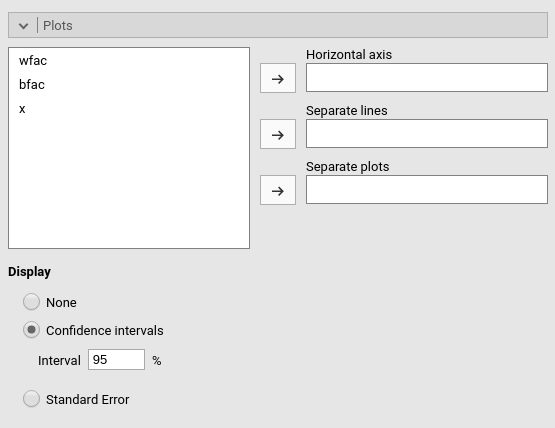
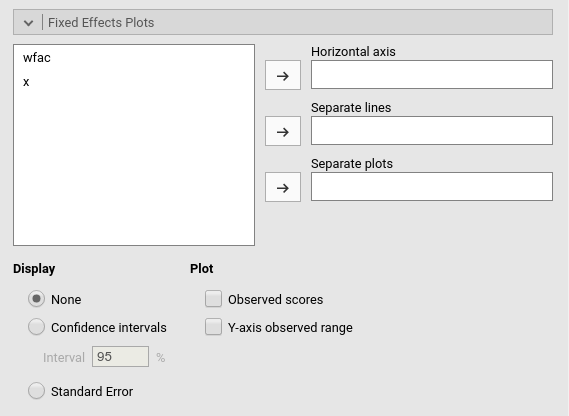
master

diff --git a/docs/gzlm_example3.html b/docs/gzlm_example3.html
@@ -331,11 +331,11 @@ div.tocify {
 <p>The data are simulated, not real, so please do not cite them to argue about any issue. The reason of this is to provide an example where the Poisson model assumptions are surely met, so some of the difficulties of dealing with count data and frequencies are not present. For more elaborated examples see <a href="gzlm_example4.html">Frequencies analysis with overdispersed models</a>.</p>
 <div id="the-research-design" class="section level1">
 <h1>The research design</h1>
-<p>Imagine an hypothetical study about addiction to mobile phones. Imagine a researcher developed a self-report questionnaire to measure participants mobile phone addiction (over-usage) and wanted to test whether the scores of the questionnaire predicts actual addictive behavior. Addictive behavior is measured in an experimental setting by counting how times the participants checked the mobile phone while waiting for the experimenters to arrive to start the measurement session (let’s ignore the time spent on each checks and assume all participants waited for the same ammount of time).</p>
+<p>Imagine a hypothetical study about addiction to mobile phones. Imagine a researcher developed a self-report questionnaire to measure participants mobile phone addiction (over-usage) and wanted to test whether the scores of the questionnaire predicts actual addictive behavior. Addictive behavior is measured in an experimental setting by counting how times the participants checked the mobile phone while waiting for the experimenters to arrive to start the measurement session (let’s ignore the time spent on each checks and assume all participants waited for the same ammount of time).</p>
 <p>The variables are then:</p>
 <ul>
 <li><em>checks</em>: number of time spent checking the phones.</li>
-<li><em>slefreport</em>: the total score of the self-report questionnaire</li>
+<li><em>selfreport</em>: the total score of the self-report questionnaire</li>
 <li><em>brand</em> : brand of the participant’s phone: either <code>Pears</code> or <code>Apples</code></li>
 </ul>
 <p>The descriptive and frequencies the independent variables show the sample charateristics.</p>
@@ -346,12 +346,12 @@ div.tocify {
 </div>
 <div id="understanding-the-problem" class="section level1">
 <h1>Understanding the problem</h1>
-<p>We want to understand how the frequency of checks is associated with the participant self-report questionnaire score (a sort of validity check of the questionnaire), if the brand of the phone makes a difference in the expected frequency of checking, and whether the questionnaire predictive ability varies for the two cell phone brands. Thus, we are looking for an effect of <code>selfreport</code> and a main effect of <code>brand</code> to answer the first two questions, and for the <code>interaction</code> between <code>selfreport</code> and <code>brand</code> to answer the third question.</p>
+<p>We want to understand how the frequency of checks is associated with the participant self-report questionnaire score (a sort of validity check of the questionnaire), if the brand of the phone makes a difference in the expected frequency of checking, and whether the questionnaire predictive ability varies for the two cell phone brands. Thus, we are looking for an effect of <code>selfreport</code> and a main effect of <code>brand</code> to answer the first two questions, and for the interaction between <code>selfreport</code> and <code>brand</code> to answer the third question.</p>
 <p>We employ the Poisson model because it is the classical model for modelling count dependent variables, and, being a special case of the generalized linear model, can accomodate main effects and intereactions. This is equivalent to a linear model where the link function is the logarithm of the predicted frequencies <span class="math inline">\(log(\hat{F})\)</span>, and the Poisson distribution is assumed for the dependent variable.</p>
 <p>We first start with only <code>selfreport</code> as independent variable, then we estimate the full model with also <code>brand</code> and the interaction as predictors.</p>
 <div id="interpretation" class="section level2">
 <h2>Interpretation</h2>
-<p>Recall that the predicted values of the models are the logarithm of the frequencies of checking the phone. Thus, the model coefficients are expressed in the log(Freq) scale. A clearer scale is obtained by removing the logarithm from the coefficients, obtaining coefficients expressed in original frequency scale. This is the <code>exp(B)</code> column of the results tables: <code>exp(B)</code> is the frequency rate of change: How many times should we multiply the expected frequency at <span class="math inline">\(x_i\)</span> to obtain the frequency at <span class="math inline">\(x_{i+1}\)</span>. In other words, the rate of change of the frequency as one increases the independent variable of one unity (or move to one group to the other for categorical independent variables).</p>
+<p>Recall that the predicted values of the models are the logarithm of the frequencies of checking the phone. Thus, the model coefficients are expressed in the log(Freq) scale. A clearer scale is obtained by removing the logarithm from the coefficients, obtaining coefficients expressed in original frequency scale. This is the <code>exp(B)</code> column of the results tables: <code>exp(B)</code> is the frequency rate of change: How many times should we multiply the expected frequency at <span class="math inline">\(x_i\)</span> to obtain the frequency at <span class="math inline">\(x_{i+1}\)</span>. In other words, the rate of change of the frequency as one increases the independent variable of one unity (or move from one group to the other for categorical independent variables).</p>
 <p>The plots and the estimated marginal means are conviniently transformed in the frequency scale, so they can be interpreted directly as the frequency of checking.</p>
 </div>
 </div>
@@ -363,12 +363,12 @@ div.tocify {
 <div id="r-squared-and-model-info" class="section level2">
 <h2>R-squared and model info</h2>
 <p>As soon as we fix the variables, results are displayed in the tables, with the first table showing some info about the model.</p>
-<p><img src="examples/gzlm3/r.infos1.png" class="img-responsive" alt=""></p>
+<p><img src="examples/gzlm3/r.info1.png" class="img-responsive" alt=""></p>
 <p>Here we find several info, some noteworthy ((see <a href="gzlm_specs.html">technical details</a> for more info):</p>
 <ul>
-<li>the R-squared, that gives information about the goodness of fit of the model . Our ability to predict pain increases of 30% thanks to the independent variable as compared to using the expected (average) frequency alone.</li>
+<li>the R-squared, that gives information about the goodness of fit of the model . Our ability to predict the frequencies of checks increases of 33% thanks to the independent variable as compared to using the expected (average) frequency alone.</li>
 <li>AIC (Aikake Information Criterion)_ Based on the likelihood of the model, decreases with the goodness of fit of the model. Usualful to compare the present model with alternative models (see below)</li>
-<li>Value/DF: This is the Pearson <span class="math inline">\(\chi^2\)</span> divided by the degrees of freedom. If the model fits well, its value should be around 1. This index is useful to evaluate the dispersion of the model. A model is overdispersed if the variance of the dependent variable is larger than what expected by the assumed distribution. In this example, it’s value is bourderline, as it is three times what it should be. However, we still have to include the <code>brand</code> variable which may explain variability of the dependent variable and thus capture dispersion. More details in [the other example](Advanced frequencies analysis with Poisson models](gzml_example4.html) and in <a href="gzlm_specs.html">technical details</a>.</li>
+<li>Value/DF: This is the Pearson <span class="math inline">\(\chi^2\)</span> divided by the degrees of freedom. If the model fits well, its value should be around 1. This index is useful to evaluate the dispersion of the model. A model is overdispersed if the variance of the dependent variable is larger than what expected by the assumed distribution. In this example, it’s value is bourderline, as it is three times what it should be. However, we still have to include the <code>brand</code> variable which may explain variability of the dependent variable and thus capture dispersion. More details in <a href="gzml_example4.html">Advanced frequencies analysis with Poisson models</a> and in <a href="gzlm_specs.html">technical details</a>.</li>
 </ul>
 </div>
 <div id="omnibus-tests" class="section level2">
@@ -379,7 +379,7 @@ div.tocify {
 </div>
 <div id="model-coefficients" class="section level2">
 <h2>Model Coefficients</h2>
-<p>There is a positive relationship between <code>selfreport</code> and <code>checks</code> (B=1.04, exp(B)=2.84), such that for one unit more in the self-report score, the frequency of checks <em>increases 2.84 times</em>. We just deduce this by looking at the <code>exp(b)</code>. Is that a big effect? Difficult to say, because we do not understand the units of the self-report score, so “one unit” does no say much. To overcome this interpretational limit, we can standardized the independent variable in <code>Covariated Scoring</code> panel,</p>
+<p>There is a positive relationship between <code>selfreport</code> and <code>checks</code> (B=1.04, exp(B)=2.84), such that for one unit more in the self-report score, the frequency of checks <em>increases 2.84 times</em>. We just deduce this by looking at the <code>exp(b)</code>. Is that a big effect? Difficult to say, because we do not understand the units of the self-report score, so “one unit” does not say much. To overcome this interpretational limit, we can standardized the independent variable in <code>Covariated Scoring</code> panel,</p>
 <p><img src="examples/gzlm3/covscore1.png" class="img-responsive" alt=""></p>
 <p><img src="examples/gzlm3/r.params2.png" class="img-responsive" alt=""></p>
 <p>We can now look at the new exp(B)=1.86 which says that the frequency of checks almost double for each standard deviation more in the self-report. It is not small as an effect: the average person in the sample checked the phone around 8 times (the intercept exp(B) is 8.13), and people one standard deviation above average round 15.12 times.</p>
@@ -389,7 +389,7 @@ div.tocify {
 <p>Finaly, we can ask for the plot of the predicted score, along with confidence intervals and observed scores.</p>
 <p><img src="examples/gzlm3/plots1.png" class="img-responsive" alt=""></p>
 <p><img src="examples/gzlm3/r.plots2.png" class="img-responsive" alt=""></p>
-<p>The graph shows a clear exponential relationship between <code>relfreport</code> and the frequency of check (which we took into the account thanks to the log() transformation): below the avergage of self-report score the frequency does not change much, but when the score gets to one standard deviation above averare its’ increase intensifies and reaches very high frequencies for scores up to 2 standard deviations above average. We also see a reasonable fit of the predicted frequencies to the observed ones.</p>
+<p>The graph shows a clear exponential relationship between <code>relfreport</code> and the frequency of check (which we took into the account thanks to the log() transformation): below the avergage of self-report score, the frequency does not change much, but when the score gets to one standard deviation above averare its increase intensifies and reaches very high frequencies for scores up to 2 standard deviations above average. We also see a reasonable fit of the predicted frequencies to the observed ones.</p>
 </div>
 </div>
 <div id="full-model." class="section level1">
@@ -400,7 +400,7 @@ div.tocify {
 <div id="model-info" class="section level2">
 <h2>Model info</h2>
 <p><img src="examples/gzlm3/r.info2.png" class="img-responsive" alt=""></p>
-<p>We first note that the <span class="math inline">\(R^2\)</span> rised up to .50, showing a strong effect of <code>brand</code>. We can also appreciate that the <code>Value/DF</code> index is now 0.987, practically 1: the model in now well in line with the assumption of the Poisson model, and no overdispersion is present.</p>
+<p>We first note that the <span class="math inline">\(R^2\)</span> rised up to .50, showing a strong effect of <code>brand</code>. We can also appreciate that the <code>Value/DF</code> index is now 0.987, practically 1: The model in now well in line with the assumptions of the Poisson model, and no overdispersion is present.</p>
 </div>
 <div id="omnibus-tests-1" class="section level2">
 <h2>Omnibus tests</h2>

diff --git a/docs/mixed.html b/docs/mixed.html
@@ -380,7 +380,11 @@ div.tocify {
 <p>By filling in “Horizontal axis” one obtains the group means of the selected factor or the regression line for the selected covariate</p>
 <p>By filling in “Horizontal axis” and “Separated lines” one a different plot depending on the type of variables selected: - “Horizontal axis” and “Separated lines” are both factos, one obtains the interaction plot of group means. - “Horizontal axis”=factor and “Separated lines”=covariate. One obtains the plot of group means of the factor estimated at three different levels of the covariate. +1 SD, the mean, and -1 SD. - “Horizontal axis”=covariate and “Separated lines”=covariate. One obtains the simple slopes graph of the simple slope of the variable in horizontal axis estimated at three different levels of the covariate. +1 SD, the mean, and -1 SD.</p>
 <p>By filling in “separate plots” one can proble three-way interactions. If the selected variable is a factor, one obtains a two-way graph (as previously defined) for each level of the “separate plots” variable. If the selected variable is a covariate, one obtains a two-way graph (as previously defined) for the “separate plots” variable centered to +1SD, the mean, and -1SD.</p>
-<p>Ticking the options add confidence intervals (or confidence bands) or standard errors to the plots does not do anything (yet to be implemented)</p>
+<p>Ticking the option add confidence intervals (or confidence bands) or standard errors to the plots.</p>
+<p>All plots are, however, depicting predicted values in the response. See details and interpretation discussion.</p>
+<p><img src="mixed/plots_e1.png" class="img-responsive" alt=""> <img src="mixed/plots_e2.png" class="img-responsive" alt=""></p>
+<p>Ticking the option “Observed scores” overimpose the actual scores to the graph. The <code>Y-axis observed range</code> allows to plot the estimated score in the observed dependent variable range without the need to plot the actual data (here is an example for a logistic model).</p>
+<p><img src="mixed/plots_e3.png" class="img-responsive" alt=""></p>
 </div>
 <div id="simple-effects" class="section level1">
 <h1>Simple effects</h1>

diff --git a/docs/gzlm.html b/docs/gzlm.html
@@ -392,7 +392,9 @@ div.tocify {
 <p>By filling in “separate plots” one can proble three-way interactions. If the selected variable is a factor, one obtains a two-way graph (as previously defined) for each level of the “separate plots” variable. If the selected variable is a covariate, one obtains a two-way graph (as previously defined) for the “separate plots” variable centered to +1SD, the mean, and -1SD.</p>
 <p>Ticking the options add confidence intervals (or confidence bands) or standard errors to the plots.</p>
 <p>Plots interpretation varies depending on the model being estimated. All plots are, however, depicting predicted values in the response original scale (usually probabilities). See details and interpretation discussion.</p>
-<p><img src="gzlm/plots_e1.png" class="img-responsive" alt=""> <img src="gzlm/plots_e2.png" class="img-responsive" alt=""></p>
+<p><img src="gzlm/plots_e1.png" class="img-responsive" alt=""></p>
+<p><img src="gzlm/plots_e2.png" class="img-responsive" alt=""></p>
+<p>Ticking the option “Observed scores” overimpose the actual scores to the graph. The <code>Y-axis observed range</code> allows to plot the estimated score in the observed dependent variable range without the need to plot the actual data.</p>
 </div>
 <div id="simple-effects" class="section level1">
 <h1>Simple effects</h1>
